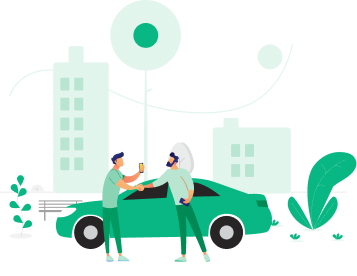
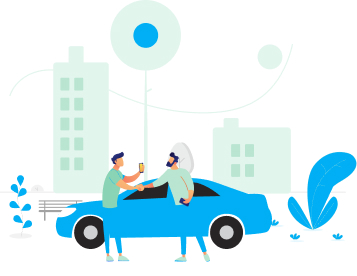
Added drivers side

diff --git a/lib/screens/signup_user/ui_signup_screen.dart b/lib/screens/signup_user/ui_signup_screen.dart
@@ -214,67 +214,6 @@ class _SignUpScreenState extends ConsumerState<SignUpScreen> {
                     const SizedBox(
                       height: 20,
                     ),
-                    DropdownButtonFormField2<String>(
-                      isExpanded: true,
-                      decoration: InputDecoration(
-                        // Add Horizontal padding using menuItemStyleData.padding so it matches
-                        // the menu padding when button's width is not specified.
-                        contentPadding:
-                            const EdgeInsets.symmetric(vertical: 16),
-                        border: OutlineInputBorder(
-                          borderRadius: BorderRadius.circular(8),
-                        ),
-                        // Add more decoration..
-                      ),
-                      hint: const Text(
-                        'Select Your Role',
-                        style: TextStyle(fontSize: 14),
-                      ),
-                      items: genderItems
-                          .map((item) => DropdownMenuItem<String>(
-                                value: item,
-                                child: Text(
-                                  item,
-                                  style: const TextStyle(
-                                    fontSize: 14,
-                                  ),
-                                ),
-                              ))
-                          .toList(),
-                      validator: (value) {
-                        if (value == null) {
-                          return 'Please select gender.';
-                        }
-                        return null;
-                      },
-                      onChanged: (value) {
-                        //Do something when selected item is changed.
-                      },
-                      onSaved: (value) {
-                        selectedValue = value.toString();
-                      },
-                      buttonStyleData: const ButtonStyleData(
-                        padding: EdgeInsets.only(right: 8),
-                      ),
-                      iconStyleData: const IconStyleData(
-                        icon: Icon(
-                          Icons.arrow_drop_down,
-                          color: Colors.black45,
-                        ),
-                        iconSize: 24,
-                      ),
-                      dropdownStyleData: DropdownStyleData(
-                        decoration: BoxDecoration(
-                          borderRadius: BorderRadius.circular(8),
-                        ),
-                      ),
-                      menuItemStyleData: const MenuItemStyleData(
-                        padding: EdgeInsets.symmetric(horizontal: 16),
-                      ),
-                    ),
-                    const SizedBox(
-                      height: 20,
-                    ),
                     Container(
                       alignment: Alignment.center,
                       child: Row(

diff --git a/lib/screens/role/ui_roles_screen.dart b/lib/screens/role/ui_roles_screen.dart
@@ -1,0 +1,69 @@
+import 'package:ease_tour/common/resources/constants/styles.dart';
+import 'package:ease_tour/common/widgets/appBar/app_bar.dart';
+import 'package:ease_tour/common/widgets/button/app_text_button.dart';
+import 'package:ease_tour/screens/role/providers/role_provider.dart';
+import 'package:flutter/material.dart';
+import 'package:flutter_riverpod/flutter_riverpod.dart';
+import 'package:get/get.dart';
+import 'package:get/get_core/src/get_main.dart';
+
+class RolesScreen extends ConsumerWidget {
+  const RolesScreen({super.key});
+
+  @override
+  Widget build(BuildContext context, WidgetRef ref) {
+    return Scaffold(
+      appBar: const EtAppBar(
+        addLeadingButton: true,
+      ),
+      body: Column(
+        children: [
+          const SizedBox(
+            height: 48,
+          ),
+          Center(
+            child: Image.asset('assets/images/role_screen_main.jpg'),
+          ),
+          const SizedBox(
+            height: 182,
+          ),
+          Center(
+            child: AppTextButton(
+              text: "Continue as a user",
+              onTap: () {
+                ref.read(roleProvider.notifier).state = 'users';
+                Get.toNamed('/signup');
+              },
+              color: Styles.primaryColor,
+              fontSize: 24,
+            ),
+          ),
+          const SizedBox(
+            height: 24,
+          ),
+          Text(
+            "OR",
+            style: Styles.displayLargeNormalStyle.copyWith(
+              fontSize: 24,
+              color: Styles.lightGrayTextColor,
+            ),
+          ),
+          const SizedBox(
+            height: 16,
+          ),
+          Center(
+            child: AppTextButton(
+              text: "Continue as a Driver",
+              onTap: () {
+                ref.read(roleProvider.notifier).state = 'drivers';
+                Get.toNamed('/signup');
+              },
+              color: Styles.primaryColor,
+              fontSize: 24,
+            ),
+          ),
+        ],
+      ),
+    );
+  }
+}

diff --git a/lib/common/resources/constants/routes.dart b/lib/common/resources/constants/routes.dart
@@ -3,10 +3,12 @@ import 'package:ease_tour/screens/login/ui_login_screen.dart';
 import 'package:ease_tour/screens/on_boarding/primary/primary_vu.dart';
 import 'package:ease_tour/screens/on_boarding/secondry/secondry_vu.dart';
 import 'package:ease_tour/screens/on_boarding/tertiary/tertiary_vu.dart';
+import 'package:ease_tour/screens/role/ui_roles_screen.dart';
 import 'package:ease_tour/screens/signup_user/ui_signup_screen.dart';
 import 'package:ease_tour/screens/signup_user/widgets/otp_verification_screen.dart';
 import 'package:ease_tour/screens/signup_user/widgets/set_password_screen.dart';
 import 'package:ease_tour/screens/transport/transport_selection/ui_select_transport_screen.dart';
+import 'package:ease_tour/screens/welcome/ui_welcome_screen.dart';
 import 'package:flutter/material.dart';
 import 'package:get/get.dart';
 
@@ -62,6 +64,18 @@ appRoutes() => [
       GetPage(
         name: '/home/transport_selection',
         page: () => const SelectTransportScreen(),
+        transition: Transition.fadeIn,
+        transitionDuration: const Duration(milliseconds: 200),
+      ),
+      GetPage(
+        name: '/welcome_screen',
+        page: () => const WelcomeScreen(),
+        transition: Transition.fadeIn,
+        transitionDuration: const Duration(milliseconds: 200),
+      ),
+      GetPage(
+        name: '/role_screen',
+        page: () => const RolesScreen(),
         transition: Transition.fadeIn,
         transitionDuration: const Duration(milliseconds: 200),
       ),

diff --git a/lib/common/widgets/button/app_text_button.dart b/lib/common/widgets/button/app_text_button.dart
@@ -8,13 +8,17 @@ class AppTextButton extends StatelessWidget {
     required this.color,
     this.textColor,
     this.addBorder = false,
+    this.borderColor,
+    this.fontSize = 16,
   });
 
   final String text;
   final VoidCallback onTap;
   final Color? color;
   final Color? textColor;
+  final Color? borderColor;
   final bool addBorder;
+  final double? fontSize;
 
   @override
   Widget build(BuildContext context) {
@@ -24,7 +28,8 @@ class AppTextButton extends StatelessWidget {
         shape: MaterialStateProperty.all(
           RoundedRectangleBorder(
             borderRadius: BorderRadius.circular(8),
-            side: const BorderSide(color: Color.fromRGBO(184, 184, 184, 1)),
+            side: BorderSide(
+                color: borderColor ?? const Color.fromRGBO(184, 184, 184, 1)),
           ),
         ),
         padding: MaterialStateProperty.all(
@@ -35,7 +40,7 @@ class AppTextButton extends StatelessWidget {
       child: Text(
         text,
         style: TextStyle(
-          fontSize: 16,
+          fontSize: fontSize,
           color: textColor ?? Colors.white,
           fontFamily: 'Poppins',
           fontWeight: FontWeight.w500,

diff --git a/lib/screens/welcome/ui_welcome_screen.dart b/lib/screens/welcome/ui_welcome_screen.dart
@@ -1,3 +1,4 @@
+import 'package:ease_tour/common/resources/constants/styles.dart';
 import 'package:ease_tour/common/widgets/button/app_text_button.dart';
 import 'package:flutter/material.dart';
 
@@ -49,7 +50,7 @@ class WelcomeScreen extends StatelessWidget {
               child: AppTextButton(
                 text: "Create an Account",
                 onTap: () {},
-                color: const Color.fromRGBO(0, 137, 85, 1),
+                color: Styles.buttonColorPrimary,
               ),
             ),
             Positioned(
@@ -60,7 +61,8 @@ class WelcomeScreen extends StatelessWidget {
                 color: null,
                 onTap: () {},
                 text: "Login",
-                textColor: const Color.fromRGBO(0, 137, 85, 1),
+                textColor: Styles.buttonColorPrimary,
+                borderColor: Styles.buttonColorPrimary,
               ),
             ),
           ],

diff --git a/lib/common/widgets/appBar/app_bar.dart b/lib/common/widgets/appBar/app_bar.dart
@@ -61,10 +61,13 @@ class _EtAppBarState extends State<EtAppBar> {
                     widget.addLeadingButton
                         ? Positioned(
                             top: 10,
-                            left: 0,
-                            child: ActionButton(
-                              icon: 'assets/icons/bars-ver.svg',
+                            right: 0,
+                            child: GestureDetector(
                               onTap: widget.onLeadingPress ?? () {},
+                              child: Text(
+                                "Skip",
+                                style: Styles.displayMedLightStyle,
+                              ),
                             ))
                         : widget.addBackButton
                             ? Positioned(

diff --git a/lib/common/resources/constants/styles.dart b/lib/common/resources/constants/styles.dart
@@ -5,12 +5,12 @@ class Styles {
 
   static Color backgroundColor = Colors.white;
 
-  static Color primaryColor = const Color(0xff08B783);
+  static Color primaryColor = const Color.fromRGBO(0, 175, 245, 100);
 
   static Color primaryColorLight = const Color(0xffE2F5ED);
   static Color primaryColorMed = const Color(0xffB9E5D1);
 
-  static Color buttonColorPrimary = const Color(0xff008955);
+  static Color buttonColorPrimary = const Color.fromRGBO(0, 175, 245, 100);
   static Color actionButtonColorPrimary = const Color(0xff8AD4B5);
 
   static Color primaryTextColor = const Color(0xff414141);

diff --git a/lib/main.dart b/lib/main.dart
@@ -33,7 +33,7 @@ class MyApp extends StatelessWidget {
             darkTheme: Themes.darkThemeData(),
             themeMode: themeProvider.themeMode,
             debugShowCheckedModeBanner: false,
-            initialRoute: '/signup',
+            initialRoute: '/role_screen',
             getPages: appRoutes(),
           );
         },

diff --git a/lib/screens/role/providers/role_provider.dart b/lib/screens/role/providers/role_provider.dart
@@ -1,0 +1,3 @@
+import 'package:flutter_riverpod/flutter_riverpod.dart';
+
+final roleProvider = StateProvider<String>((ref) => '');
